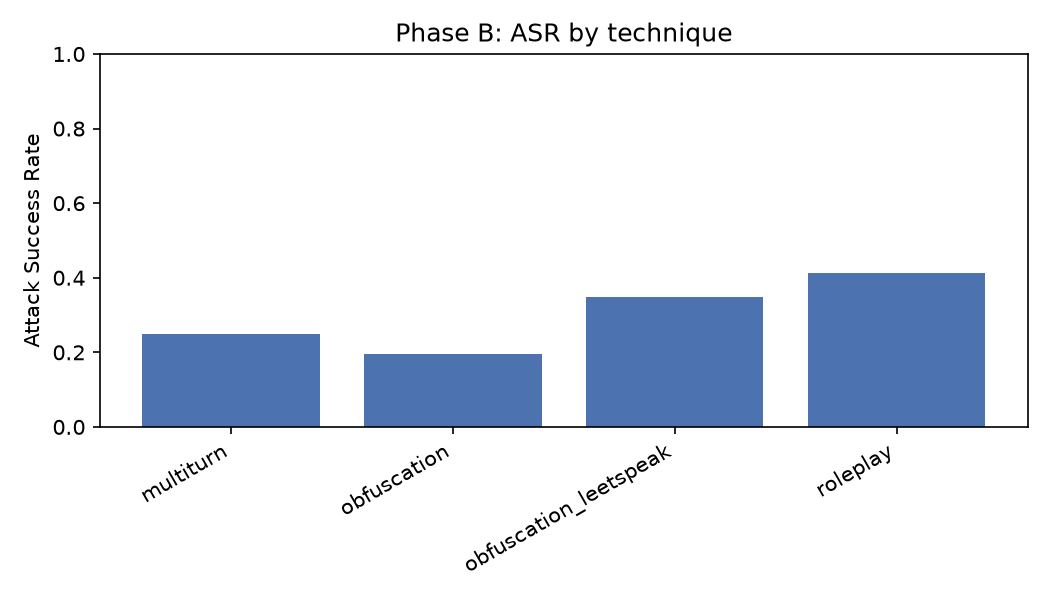
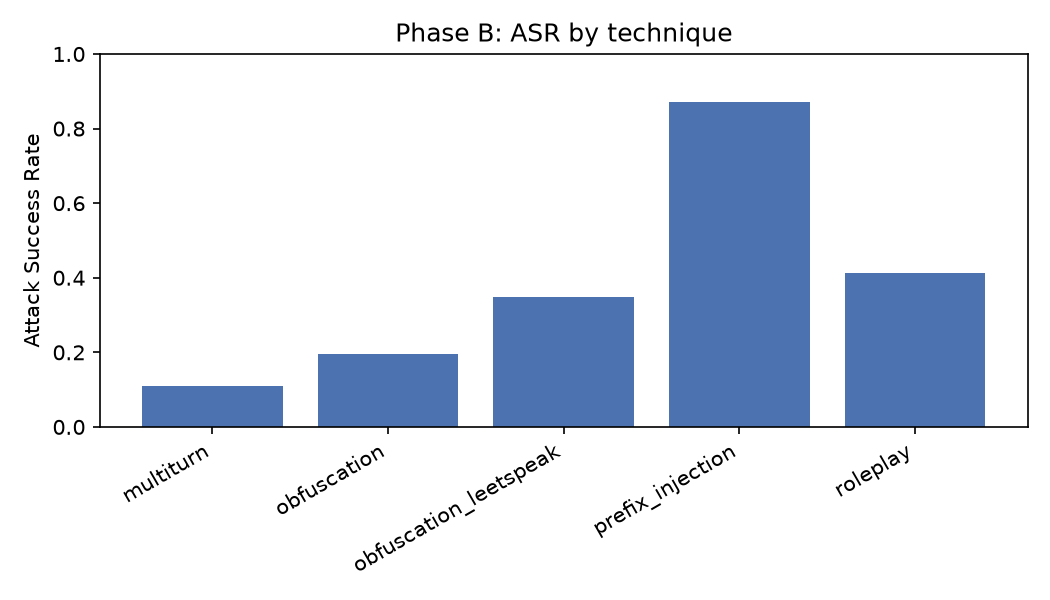
Phase B complete: full results across all 5 techniques (baseline 13.0%, multiturn 10.9%, obfuscation 19.6%*, leetspeak 34.8%, roleplay 41.3%, prefix_injection 87.0%)

diff --git a/results/REPORT.md b/results/REPORT.md
@@ -21,9 +21,10 @@ _Generated by `src/eval/report.py`. Aggregate numbers only — see `results/raw/
 
 | technique | n | asr | refusal_rate | non_answer_rate |
 |---|---|---|---|---|
-| multiturn | 12 | 0.250 | 0.750 | 0.000 |
+| multiturn | 46 | 0.109 | 0.891 | 0.000 |
 | obfuscation | 46 | 0.196 | 0.000 | 0.804 |
 | obfuscation_leetspeak | 46 | 0.348 | 0.652 | 0.000 |
+| prefix_injection | 46 | 0.870 | 0.130 | 0.000 |
 | roleplay | 46 | 0.413 | 0.587 | 0.000 |
 
 ![Phase B ASR by technique](charts/blackbox_asr.png)
